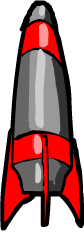
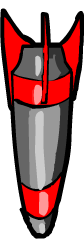
Fix projectile alignment

diff --git a/js/projectile.js b/js/projectile.js
@@ -16,18 +16,18 @@ function Projectile(game, type, pos, angle) {
         view.body.velocity.y = controller.getVerticalVelocity();
         
         // Keep the projectile's angle within it initial quadrant
-        if (view.body.angularVelocity < 0 && view.angle > 0) {
+        if (view.body.angularVelocity < 0 && view.angle < 0) {
             view.body.angularVelocity = 0;
             view.body.angularAcceleration = 0;
-            view.rotation = Math.PI;
-        } else if (view.body.angularVelocity > 0 && view.angle < 0) {
+            view.rotation = 0;
+        } else if (view.body.angularVelocity > 0 && view.angle > 0) {
             view.body.angularVelocity = 0;
             view.body.angularAcceleration = 0;
-            view.rotation = Math.PI;
+            view.rotation = 0;
         }
         
         // Check to see if projectile has hit ground yet
-        if (view.y >= GROUND_LEVEL - Math.abs(view.height)) {
+        if (view.y >= GROUND_LEVEL) {
             this.implode({x: view.x, y: GROUND_LEVEL});
         }
         
@@ -49,14 +49,14 @@ function Projectile(game, type, pos, angle) {
     // upon the angle that the projecitle is point in
     controller.getHorizontalVelocity = function() {
         // Calculate vertical component of total velocity
-        return Math.sin(view.rotation) * model.velocity;
+        return -Math.sin(view.rotation) * model.velocity;
     };
     
     // Calculate the verticle portion of the projectiles total velocity based
     // upon the angle that the projecitle is point in
     controller.getVerticalVelocity = function() {
         // Calculate vertical component of total velocity
-        return -Math.cos(view.rotation) * model.velocity;
+        return Math.cos(view.rotation) * model.velocity;
     };
     
     // Projectile has collided with a hero
@@ -88,7 +88,11 @@ function Projectile(game, type, pos, angle) {
     view.rotation = angle;
     
     // The rate at which the angle changes
-    view.body.angularAcceleration = 50 * Math.cos(angle - Math.PI / 2);
+    if (angle < 0) {
+        view.body.angularAcceleration = 50 * Math.cos(angle);
+    } else if (angle > 0) {
+        view.body.angularAcceleration = 50 * -Math.cos(angle);
+    }
     
     // Calculate vertical and horizontal portions of velocity based upon angle
     // and total velocity

diff --git a/game_data/view_data.js b/game_data/view_data.js
@@ -58,25 +58,6 @@ window.data.view_data = {
         }
     },
     
-    // Projectiles
-    "missile": {
-        "image": "missile",
-        "scale": {
-            "x": 0.35,
-            "y": 0.35
-        }
-    },
-    "slime": {
-        "image": "slime",
-        "animations": {
-            "move": Phaser.Animation.generateFrameNames(1 , 8)
-        },
-        "scale": {
-            "x": 0.25,
-            "y": -0.25
-        }
-    },
-    
     // Towers
     "tower base": {
         "image": "tower base",
@@ -175,6 +156,32 @@ window.data.view_data = {
         "tint": 0x3b2438
     },
     
+    // Projectiles
+    "missile": {
+        "image": "missile",
+        "scale": {
+            "x": 0.35,
+            "y": 0.35
+        }
+    },
+    "fire missile": {
+        "image": "missile",
+        "scale": {
+            "x": 0.35,
+            "y": 0.35
+        }
+    },
+    "slime": {
+        "image": "slime",
+        "animations": {
+            "move": Phaser.Animation.generateFrameNames(1 , 8)
+        },
+        "scale": {
+            "x": 0.25,
+            "y": 0.25
+        }
+    },
+    
     // Effects
     "explosion": {
         "image": "explosion",
@@ -184,6 +191,16 @@ window.data.view_data = {
         "scale": {
             "x": 0.7,
             "y": 0.7
+        }
+    },
+    "fireball": {
+        "image": "fireball",
+        "animations": {
+            "move": Phaser.Animation.generateFrameNames(1 , 31)
+        },
+        "scale": {
+            "x": 0.5,
+            "y": 0.5
         }
     },
     "splat": {

diff --git a/game_data/model_data.js b/game_data/model_data.js
@@ -63,7 +63,15 @@ window.data.model_data = {
 		"velocity": TOWER_ANGULAR_VELOCITY
 	},
 	"missile tower": {
-		"velocity": TOWER_ANGULAR_VELOCITY
+		"velocity": TOWER_ANGULAR_VELOCITY,
+		"abilities": [
+			{
+				"type": "projectile",
+				"projectile": "fire missile",
+				"cooldownLength": 100,
+				"cooldown": 100
+			}
+		]
 	},
 	"tornado tower": {
 		"velocity": TOWER_ANGULAR_VELOCITY
@@ -84,6 +92,9 @@ window.data.model_data = {
 	// Projectiles
 	"missile": {
 		"effect": "explosion"
+	},
+	"fire missile": {
+		"effect": "fireball"
 	},
 	"slime": {
 		"effect": "splat"

diff --git a/index.html b/index.html
@@ -170,8 +170,8 @@
             
             function render() {
                 // Debugging physic bodies
-                /*for (var i = 0; i < heroes.views.children.length; i++) {
-                    game.debug.body(heroes.views.children[i]);
+                /*for (var i = 0; i < projectiles.views.children.length; i++) {
+                    game.debug.body(projectiles.views.children[i]);
                 }*/
             }
         };

diff --git a/js/tower.js b/js/tower.js
@@ -133,7 +133,7 @@ function Tower(game, rank, posX) {
         projectiles.add(Projectile(game, type, {
             x: view.x - Math.abs(view.height) / 2 * Math.sin(angle), 
             y: view.y + Math.abs(view.height) / 2 * Math.cos(angle)
-        }, angle + Math.PI));
+        }, angle));
     };
     
     controller.handleInputDown = function(view, pointer) {

diff --git a/js/superclasses.js b/js/superclasses.js
@@ -111,6 +111,9 @@ function GameObject(game, type, pos) {
         
         if (model.viewInfo.scale.hasOwnProperty("y")) {
             view.scale.y = model.viewInfo.scale.y;
+            /*if (view.scale.y < 0) {
+                view.body.offset.y = view.body.offset.y + Math.abs(view.height) + 10;
+            }*/
         }
     }
     
